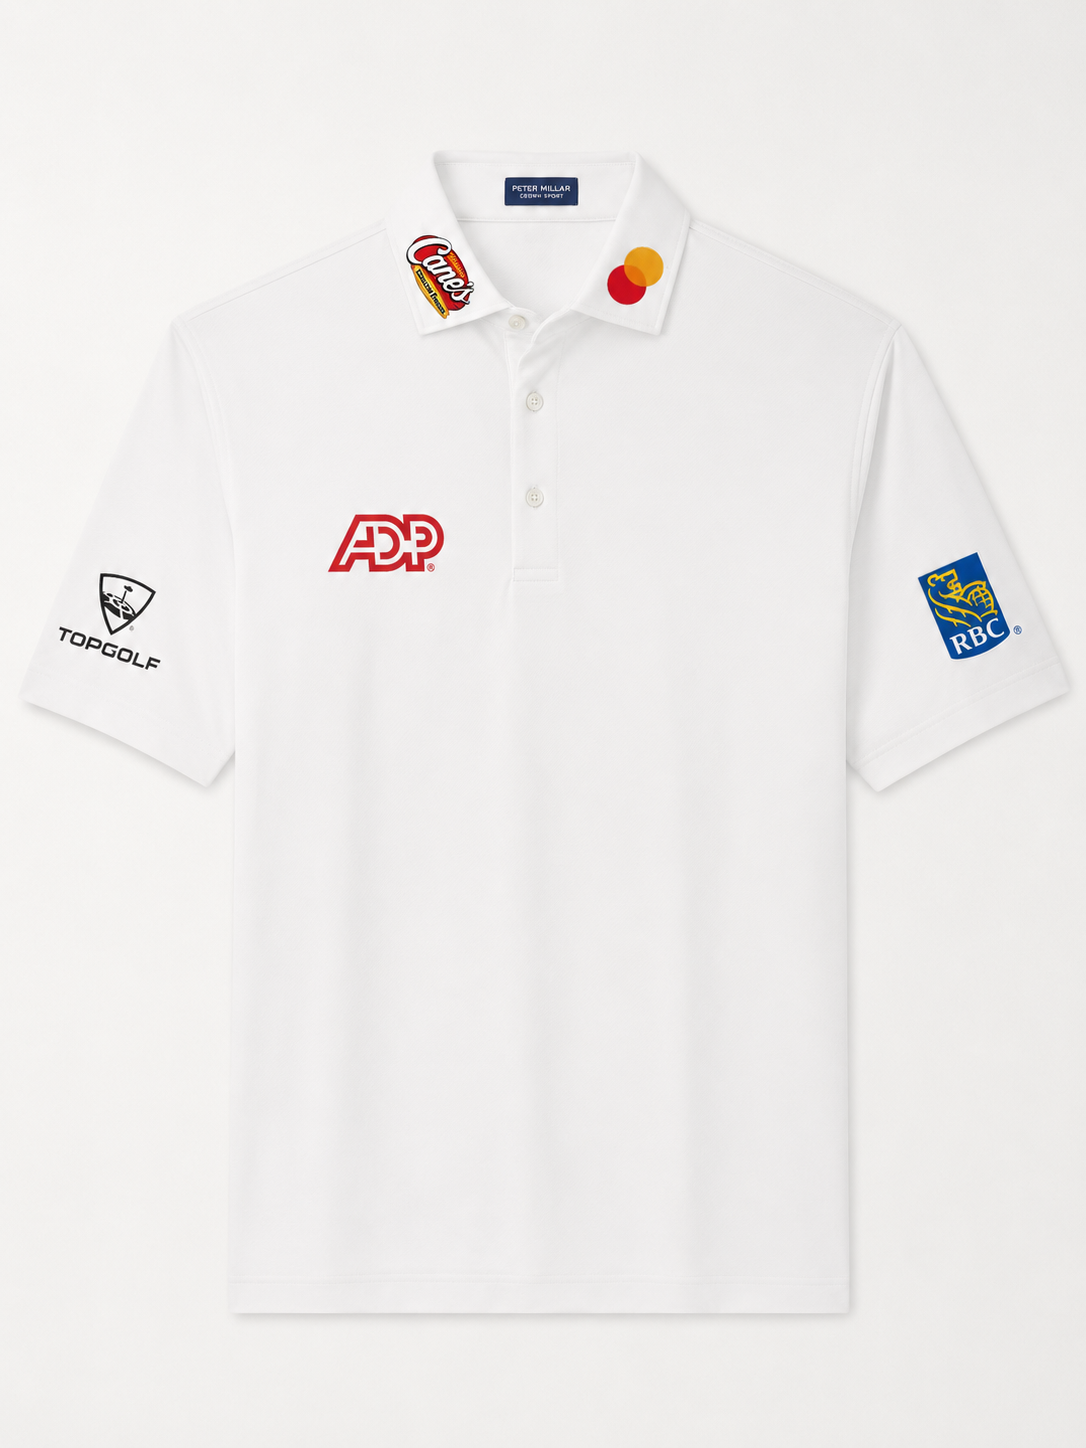
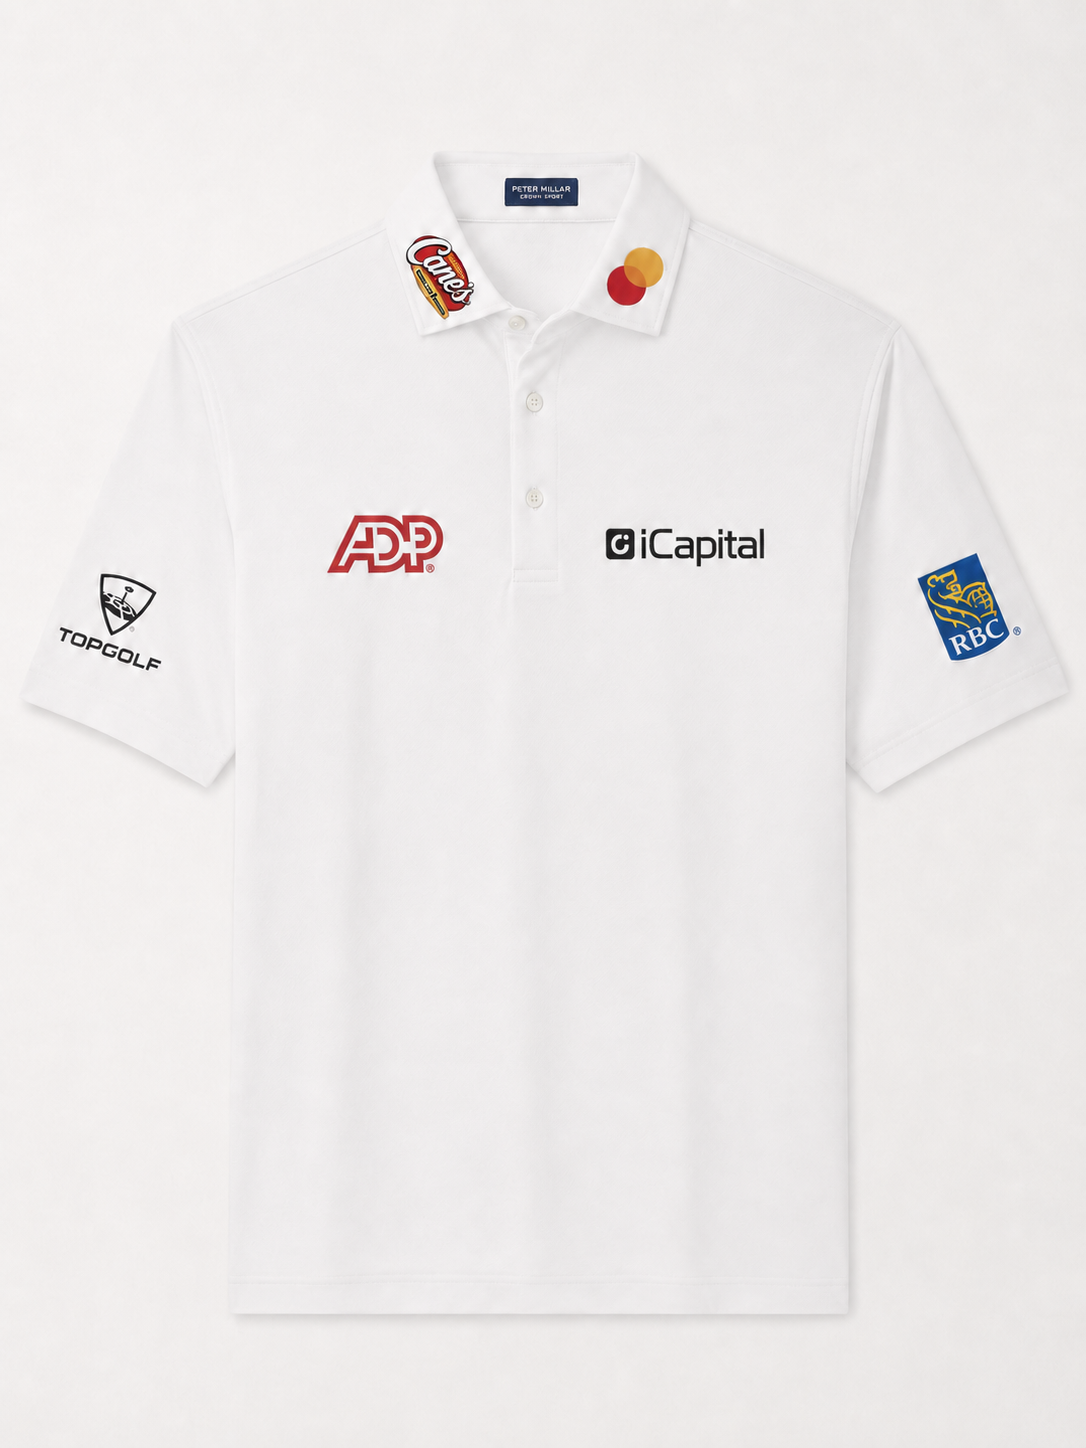
feat(shop): add iCapital to Sam Burns polo, retune sponsor hotspots
Sam Burns added iCapital as a sponsor. Swap in the new flatlay render and
carry the sponsor through the PDP:

- New primary image with the iCapital mark at the right chest, replacing
  the previous render at the same path.
- iCapital sponsor entry for sam-burns, ordered after ADP to match its
  placement on the garment.
- Product description and sponsor-placement detail line updated.
- iCapital hotspot added; Sam Burns, Wyndham Clark, and JJ Spaun hotspot
  coordinates retuned against their logos.

Hotspot callouts also get a "+" glyph back inside the ring — a bare ring
read as decoration rather than a control. It stays hairline so the logo
underneath still shows through, is drawn white over a dark halo to hold
up on both pale flatlays and dark garments, and rotates to an "×" while
its popover is open.

diff --git a/components/image-hotspots.tsx b/components/image-hotspots.tsx
@@ -4,8 +4,14 @@ import { useEffect, useRef, useState } from "react";
 import type { ProductImageHotspot } from "@/lib/products";
 import type { Sponsor } from "@/lib/sponsors";
 
-/** Overlays a set of circular "+" callouts on a product image. Clicking one
- *  toggles a popover that surfaces the matching sponsor's name and blurb. */
+/** Overlays a set of open ring callouts on a product image. Clicking one
+ *  toggles a popover that surfaces the matching sponsor's name and blurb.
+ *  The rings are hollow on purpose — they sit directly over sponsor logos,
+ *  so a filled dot would hide the mark it's pointing at (worst on mobile,
+ *  where the same fixed-size dot covers far more of a smaller image). A
+ *  hairline "+" sits inside to signal the ring is clickable. Both the ring
+ *  and the "+" are white over a dark halo, which keeps them legible on pale
+ *  flatlays and dark garments alike. */
 export function ImageHotspots({
   hotspots,
   sponsors,
@@ -72,17 +78,45 @@ export function ImageHotspots({
                 e.stopPropagation();
                 setOpenIndex(isOpen ? null : i);
               }}
-              className={`relative flex h-8 w-8 items-center justify-center rounded-full bg-white text-brand-ink shadow-md ring-1 ring-brand-ink/15 transition-transform hover:scale-110 ${
-                isOpen ? "scale-110" : ""
+              className={`relative flex h-7 w-7 items-center justify-center rounded-full border-2 transition-transform hover:scale-110 sm:h-8 sm:w-8 ${
+                isOpen
+                  ? "scale-110 border-white ring-1 ring-brand-ink/60"
+                  : "border-white/85 ring-1 ring-brand-ink/40"
               }`}
             >
-              <span aria-hidden className="block h-3 w-3 relative">
-                <span className="absolute left-1/2 top-0 h-full w-[1.5px] -translate-x-1/2 rounded-full bg-current" />
-                <span className="absolute top-1/2 left-0 h-[1.5px] w-full -translate-y-1/2 rounded-full bg-current" />
-              </span>
+              {/* Invisible hit area — keeps the tap target near 44px while the
+                  painted ring stays small enough not to crowd the logo. */}
+              <span aria-hidden className="absolute -inset-2 rounded-full" />
+              {/* "+" affordance — without it a bare ring reads as decoration
+                  rather than a control. Drawn as a hairline cross so the logo
+                  still shows through: the dark stroke underneath is a halo for
+                  the white one on top, which is what keeps it readable on both
+                  pale flatlays and dark garments (the same white-over-dark
+                  trick as the ring). Rotates to an "×" while open. */}
+              <svg
+                aria-hidden
+                viewBox="0 0 12 12"
+                className={`h-2.5 w-2.5 transition-transform duration-200 sm:h-3 sm:w-3 ${
+                  isOpen ? "rotate-45" : ""
+                }`}
+              >
+                <path
+                  d="M6 1.75V10.25M1.75 6H10.25"
+                  stroke="currentColor"
+                  strokeWidth="3.25"
+                  strokeLinecap="round"
+                  className="text-brand-ink/60"
+                />
+                <path
+                  d="M6 1.75V10.25M1.75 6H10.25"
+                  stroke="#fff"
+                  strokeWidth="1.5"
+                  strokeLinecap="round"
+                />
+              </svg>
               <span
                 aria-hidden
-                className={`absolute inset-0 -z-10 rounded-full bg-white/60 ${
+                className={`absolute inset-0 -z-10 rounded-full ring-1 ring-white/70 ${
                   isOpen ? "animate-none" : "animate-ping"
                 }`}
               />

diff --git a/lib/products.ts b/lib/products.ts
@@ -978,9 +978,9 @@ export const products: Product[] = [
         fit: "contain",
         bgColor: "#dad9dd",
         hotspots: [
-          { x: 50, y: 12, sponsorName: "Municipal" },
-          { x: 33, y: 40, sponsorName: "Power Design" },
-          { x: 60, y: 40, sponsorName: "SoFi" },
+          { x: 50, y: 19, sponsorName: "Municipal" },
+          { x: 37, y: 41, sponsorName: "Power Design" },
+          { x: 63, y: 41, sponsorName: "SoFi" },
         ],
       },
       {
@@ -1019,14 +1019,14 @@ export const products: Product[] = [
     brand: "Peter Millar",
     price: 138,
     description:
-      "Sam Burns's Sunday look — Peter Millar's Albatross piqué polo in white, with his full sponsor lineup intact from Mastercard to Raising Cane's. The perfect blend of traditional and technical: a pima cotton base brings softness and classic texture, while blended performance yarns add four-way stretch. Designed in an Oxford piqué knit and detailed with mother-of-pearl buttons.",
+      "Sam Burns's Sunday look — Peter Millar's Albatross piqué polo in white, with his full sponsor lineup intact, from Mastercard and Raising Cane's to the newly added iCapital at the right chest. The perfect blend of traditional and technical: a pima cotton base brings softness and classic texture, while blended performance yarns add four-way stretch. Designed in an Oxford piqué knit and detailed with mother-of-pearl buttons.",
     details: [
       "62% pima cotton / 32% polyester / 6% spandex Oxford piqué knit",
       "Four-way stretch, moisture-wicking, easy-care, and odor-resistant",
       "Edwin spread collar with two-button placket",
       "Mother-of-pearl buttons",
       "Tailored fit",
-      "Tour sponsor placements: Mastercard, ADP, Topgolf, RBC, Raising Cane's",
+      "Tour sponsor placements: Mastercard, ADP, iCapital, Topgolf, RBC, Raising Cane's",
       "Machine wash cold with colors; tumble dry low. Do not iron or dry clean",
     ],
     colorways: [{ name: "White", hex: "#f7f3ea" }],
@@ -1037,12 +1037,13 @@ export const products: Product[] = [
         fit: "contain",
         bgColor: "#f4f3f1",
         hotspots: [
-          { x: 50, y: 9, sponsorName: "Peter Millar" },
-          { x: 37, y: 19, sponsorName: "Raising Cane's" },
-          { x: 59, y: 18, sponsorName: "Mastercard" },
-          { x: 42, y: 37, sponsorName: "ADP" },
-          { x: 16, y: 44, sponsorName: "Topgolf" },
-          { x: 80, y: 44, sponsorName: "RBC" },
+          { x: 50, y: 10, sponsorName: "Peter Millar" },
+          { x: 36, y: 20, sponsorName: "Raising Cane's" },
+          { x: 62, y: 21, sponsorName: "Mastercard" },
+          { x: 37, y: 33, sponsorName: "ADP" },
+          { x: 62, y: 34, sponsorName: "iCapital" },
+          { x: 16, y: 37, sponsorName: "Topgolf" },
+          { x: 84, y: 36, sponsorName: "RBC" },
         ],
       },
       {
@@ -1102,10 +1103,10 @@ export const products: Product[] = [
         bgColor: "#ffffff",
         colorway: "Blue",
         hotspots: [
-          { x: 43, y: 33, sponsorName: "NICE" },
-          { x: 57, y: 34, sponsorName: "PUMA" },
-          { x: 14, y: 40, sponsorName: "Tradeweb" },
-          { x: 80, y: 40, sponsorName: "Amerisure" },
+          { x: 39, y: 34, sponsorName: "NICE" },
+          { x: 61, y: 34, sponsorName: "PUMA" },
+          { x: 23, y: 40, sponsorName: "Tradeweb" },
+          { x: 76, y: 38, sponsorName: "Amerisure" },
         ],
       },
       {

diff --git a/lib/sponsors.ts b/lib/sponsors.ts
@@ -212,6 +212,11 @@ const SPONSORS_BY_PLAYER: Record<string, Sponsor[]> = {
         "The global human-capital-management company and a prominent PGA Tour sponsor. ADP's front-chest mark reflects a partnership built around consistency and performance — on the course and in the workplace.",
     },
     {
+      name: "iCapital",
+      blurb:
+        "The fintech platform that built the rails for alternative investments across the wealth management industry. iCapital's newest addition to Burns's right chest puts the brand alongside ADP on one of the Tour's most consistent winners — a placement aimed squarely at the advisor and investor audiences who follow every week.",
+    },
+    {
       name: "Topgolf",
       blurb:
         "The tech-driven driving-range and entertainment brand that's grown the game for a whole new audience. Topgolf's partnership with Burns connects one of golf's most accessible experiences to a proven Tour winner.",
